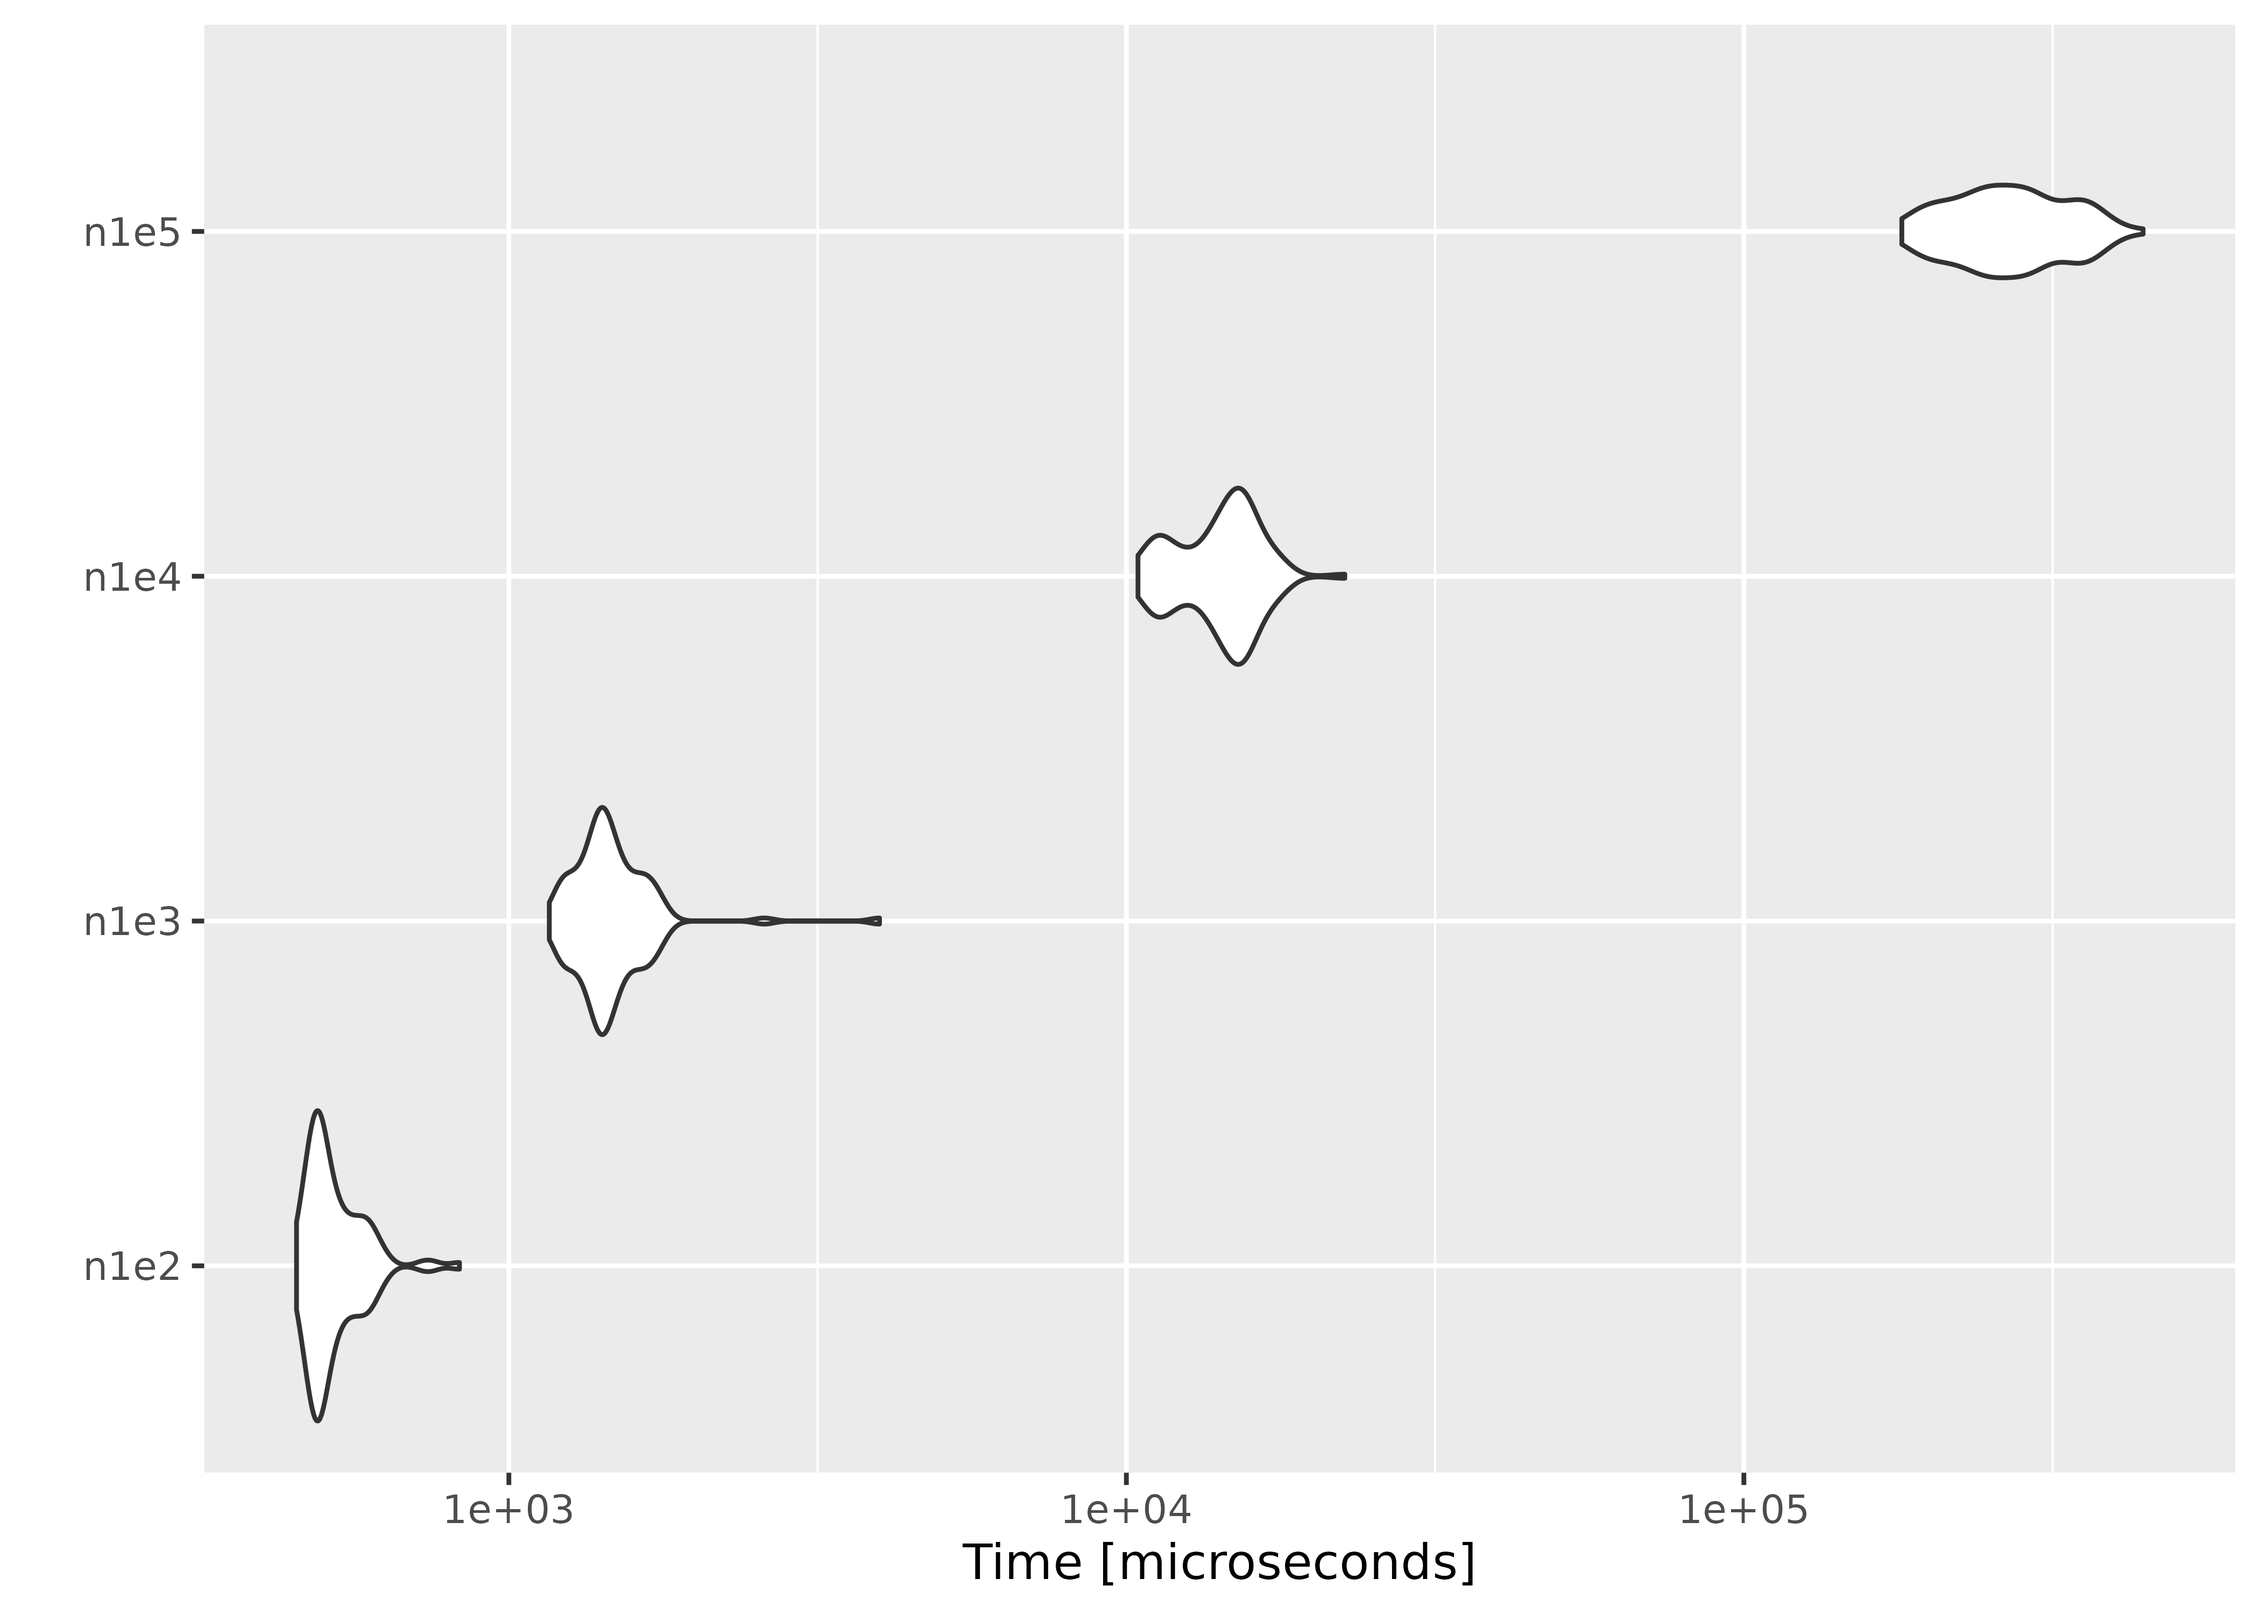
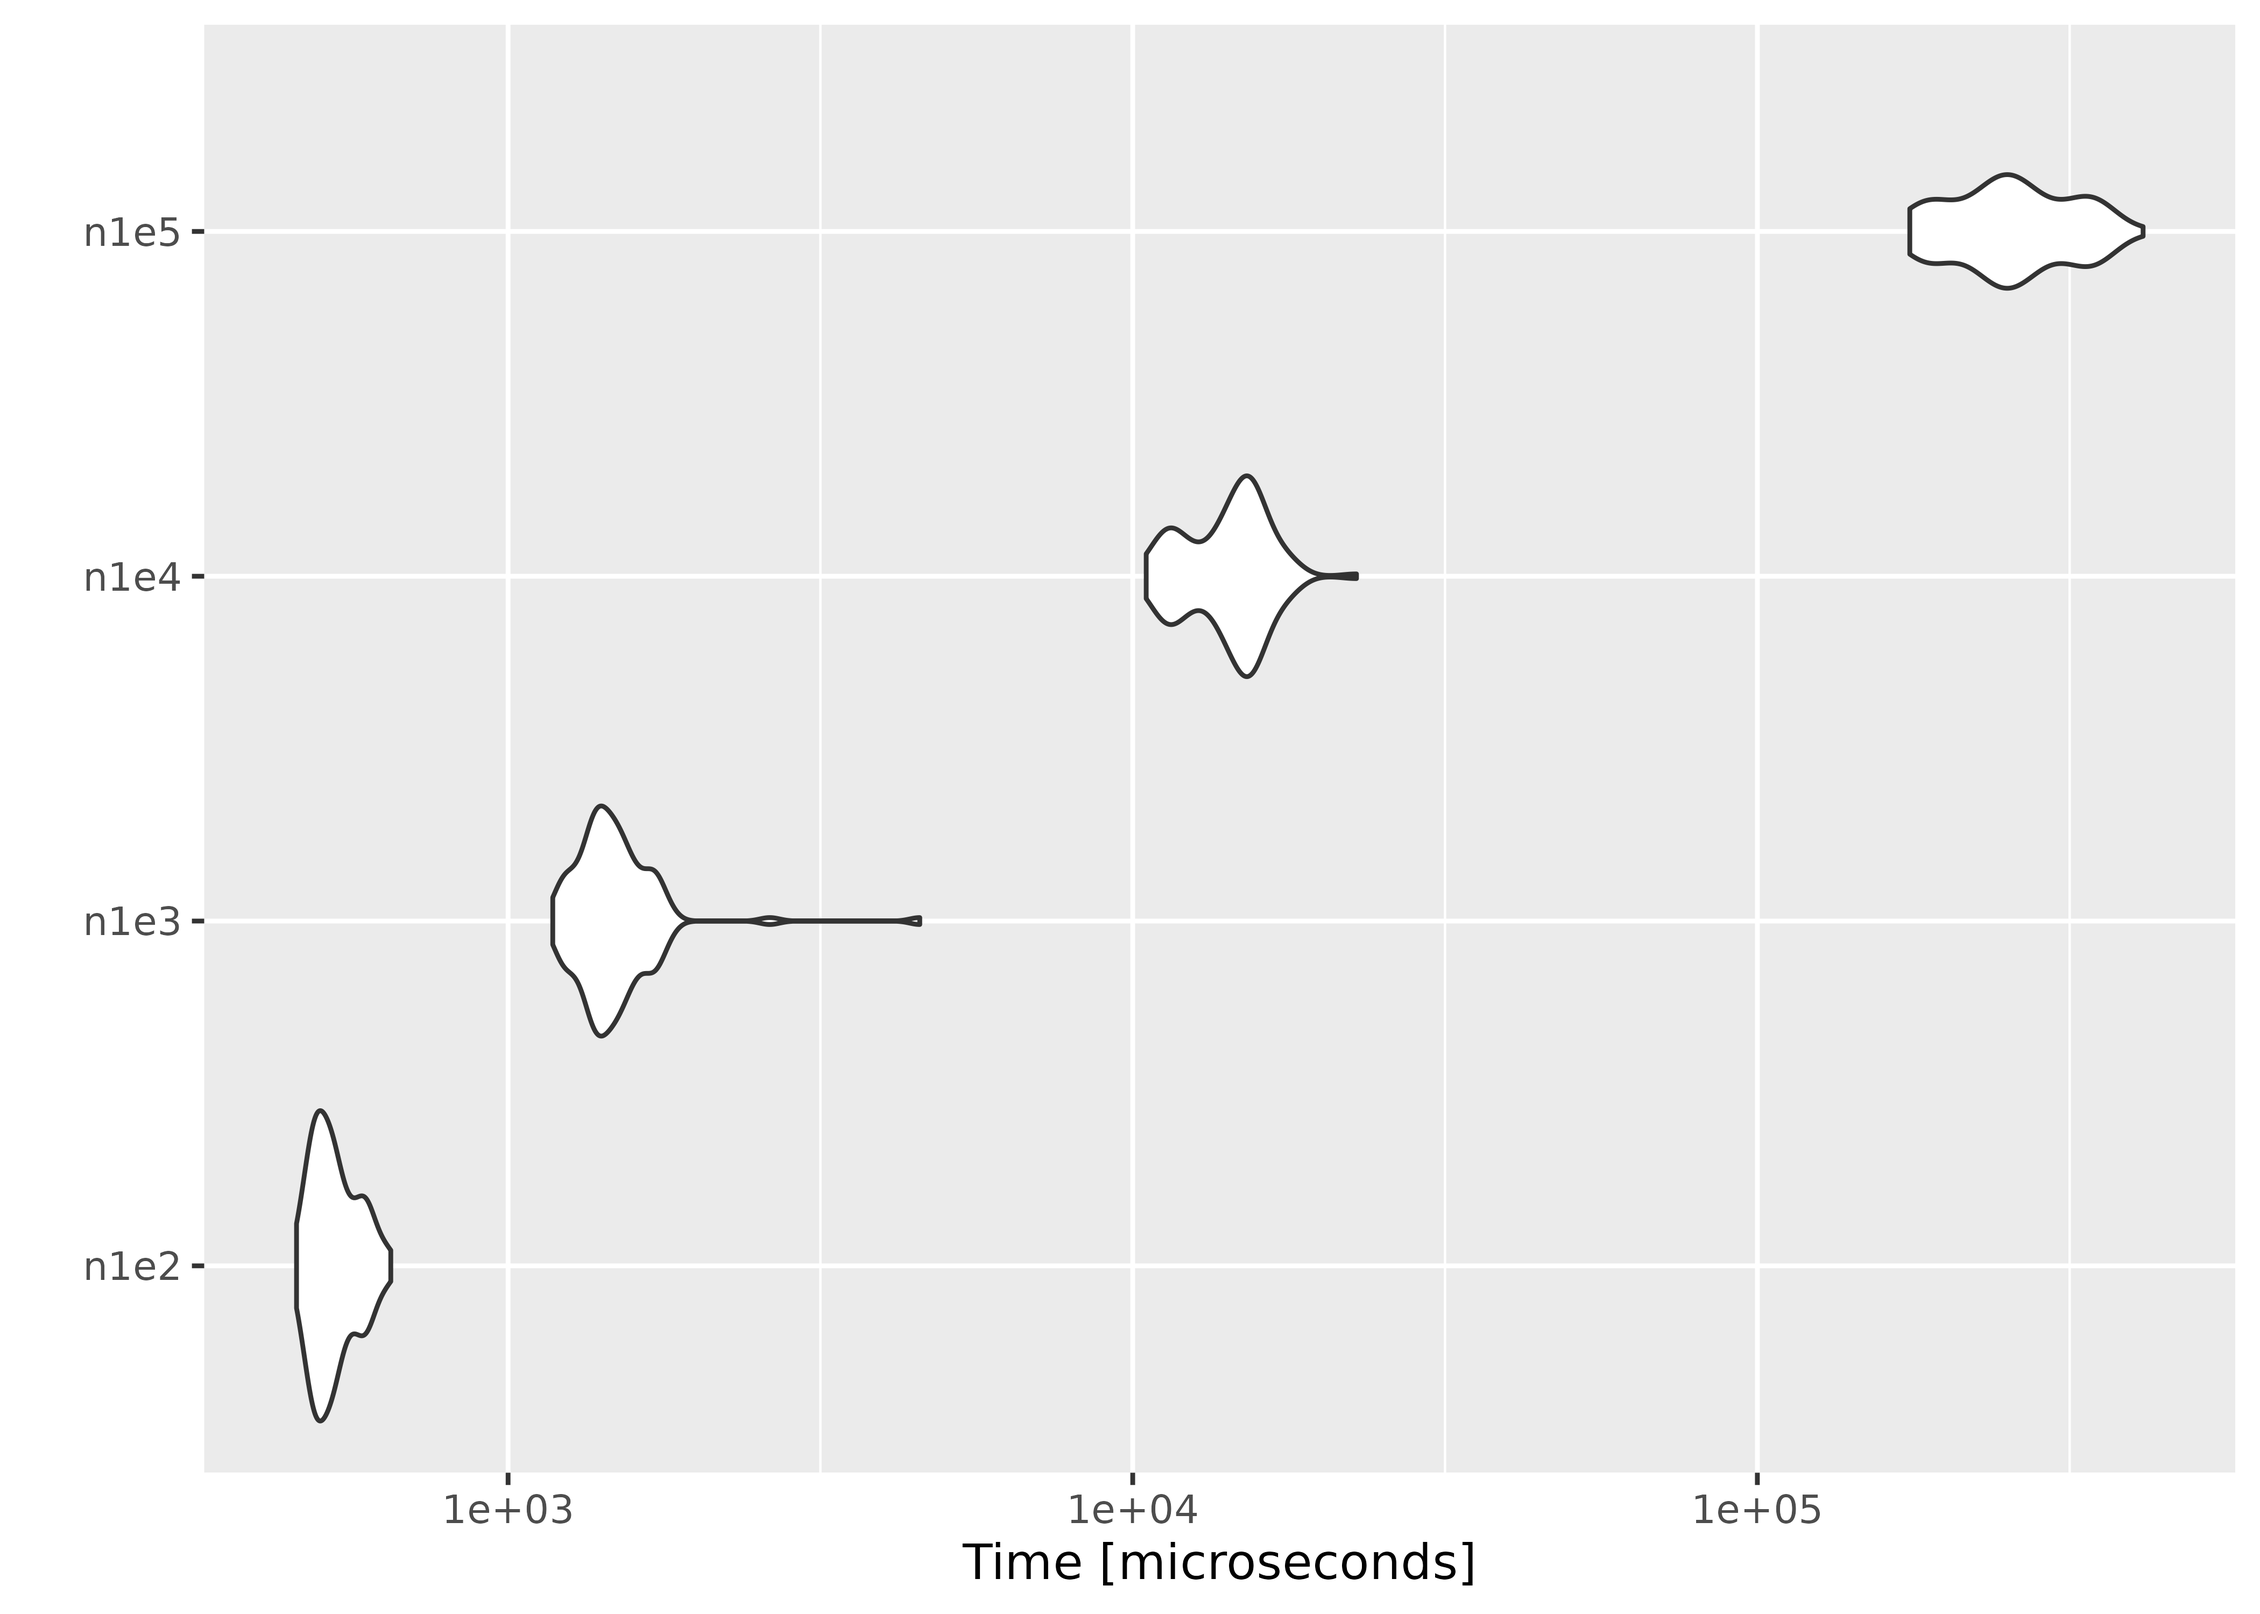
Deploying to gh-pages from @ ropensci/melt@41fb9739a0178aefef56164a13ce222602e518e7 🚀

diff --git a/articles/performance.html b/articles/performance.html
@@ -135,16 +135,16 @@ parameters increases with the number of observations fixed.</p>
 <div class="sourceCode" id="cb2"><pre class="downlit sourceCode r">
 <code class="sourceCode R"><span><span class="va">result</span></span>
 <span><span class="co">#&gt; Unit: microseconds</span></span>
-<span><span class="co">#&gt;  expr        min         lq        mean     median          uq        max neval</span></span>
-<span><span class="co">#&gt;  n1e2    453.025    484.278    523.3449    497.943    550.6715    831.770   100</span></span>
-<span><span class="co">#&gt;  n1e3   1162.707   1351.695   1481.8469   1424.289   1553.0545   3983.484   100</span></span>
-<span><span class="co">#&gt;  n1e4  10442.461  12554.362  14258.8615  14710.851  15512.0140  22581.203   100</span></span>
-<span><span class="co">#&gt;  n1e5 180213.903 231455.375 274692.9988 263786.448 312103.5420 443111.720   100</span></span>
-<span><span class="co">#&gt;  cld</span></span>
-<span><span class="co">#&gt;  a  </span></span>
-<span><span class="co">#&gt;  a  </span></span>
-<span><span class="co">#&gt;   b </span></span>
-<span><span class="co">#&gt;    c</span></span>
+<span><span class="co">#&gt;  expr        min          lq        mean      median         uq        max</span></span>
+<span><span class="co">#&gt;  n1e2    458.464    493.4445    528.0626    516.6175    557.484    648.929</span></span>
+<span><span class="co">#&gt;  n1e3   1178.997   1364.4975   1503.1978   1445.0280   1568.538   4561.138</span></span>
+<span><span class="co">#&gt;  n1e4  10509.441  12413.3640  14304.8594  14739.9185  15535.666  22815.530</span></span>
+<span><span class="co">#&gt;  n1e5 175413.170 219172.4175 261798.3116 252654.8720 305919.942 414534.281</span></span>
+<span><span class="co">#&gt;  neval cld</span></span>
+<span><span class="co">#&gt;    100 a  </span></span>
+<span><span class="co">#&gt;    100 a  </span></span>
+<span><span class="co">#&gt;    100  b </span></span>
+<span><span class="co">#&gt;    100   c</span></span>
 <span><span class="fu"><a href="https://ggplot2.tidyverse.org/reference/autoplot.html" class="external-link">autoplot</a></span><span class="op">(</span><span class="va">result</span><span class="op">)</span></span></code></pre></div>
 <p><img src="performance_files/figure-html/unnamed-chunk-4-1.png" width="100%" style="display: block; margin: auto;"></p>
 </div>
@@ -176,16 +176,16 @@ likelihood at zero vectors of different sizes.</p>
 <div class="sourceCode" id="cb4"><pre class="downlit sourceCode r">
 <code class="sourceCode R"><span><span class="va">result2</span></span>
 <span><span class="co">#&gt; Unit: microseconds</span></span>
-<span><span class="co">#&gt;  expr        min          lq        mean     median         uq        max neval</span></span>
-<span><span class="co">#&gt;    p5    728.939    767.6705    806.6485    795.282    826.325   1343.785   100</span></span>
-<span><span class="co">#&gt;   p25   2732.613   2774.3955   2969.6915   2810.562   2870.630   7541.705   100</span></span>
-<span><span class="co">#&gt;  p100  21857.294  24144.5115  26205.3997  25027.092  28846.159  43044.520   100</span></span>
-<span><span class="co">#&gt;  p400 254766.703 279780.8355 312238.5094 298818.711 333693.589 445630.174   100</span></span>
-<span><span class="co">#&gt;  cld</span></span>
-<span><span class="co">#&gt;  a  </span></span>
-<span><span class="co">#&gt;  a  </span></span>
-<span><span class="co">#&gt;   b </span></span>
-<span><span class="co">#&gt;    c</span></span>
+<span><span class="co">#&gt;  expr        min          lq        mean     median          uq        max</span></span>
+<span><span class="co">#&gt;    p5    724.500    776.6015    822.8717    820.043    870.6525    938.308</span></span>
+<span><span class="co">#&gt;   p25   2734.916   2799.9270   3050.1811   2873.820   2911.3545   9331.537</span></span>
+<span><span class="co">#&gt;  p100  22130.233  24379.1885  26578.7958  25497.106  29163.7835  43970.546</span></span>
+<span><span class="co">#&gt;  p400 258560.711 283373.7320 316908.1187 303488.851 348228.5350 460725.715</span></span>
+<span><span class="co">#&gt;  neval cld</span></span>
+<span><span class="co">#&gt;    100 a  </span></span>
+<span><span class="co">#&gt;    100 a  </span></span>
+<span><span class="co">#&gt;    100  b </span></span>
+<span><span class="co">#&gt;    100   c</span></span>
 <span><span class="fu"><a href="https://ggplot2.tidyverse.org/reference/autoplot.html" class="external-link">autoplot</a></span><span class="op">(</span><span class="va">result2</span><span class="op">)</span></span></code></pre></div>
 <p><img src="performance_files/figure-html/unnamed-chunk-6-1.png" width="100%" style="display: block; margin: auto;"></p>
 <p>On average, evaluating empirical likelihood with a 100000×10 or

diff --git a/news/index.html b/news/index.html
@@ -61,7 +61,7 @@
     </div>
 
     <div class="section level2">
-<h2 class="page-header" data-toc-text="1.11.3" id="melt-1113">melt 1.11.3<a class="anchor" aria-label="anchor" href="#melt-1113"></a></h2>
+<h2 class="page-header" data-toc-text="1.11.3" id="melt-1113">melt 1.11.3<small>2024-04-12</small><a class="anchor" aria-label="anchor" href="#melt-1113"></a></h2>
 <div class="section level3">
 <h3 id="new-features-1-11-3">NEW FEATURES<a class="anchor" aria-label="anchor" href="#new-features-1-11-3"></a></h3>
 <ul><li>New <code>"ael"</code> option has been added in the <code>calibrate</code> argument of <code><a href="../reference/elt.html">elt()</a></code> for adjusted empirical likelihood calibration.</li>
